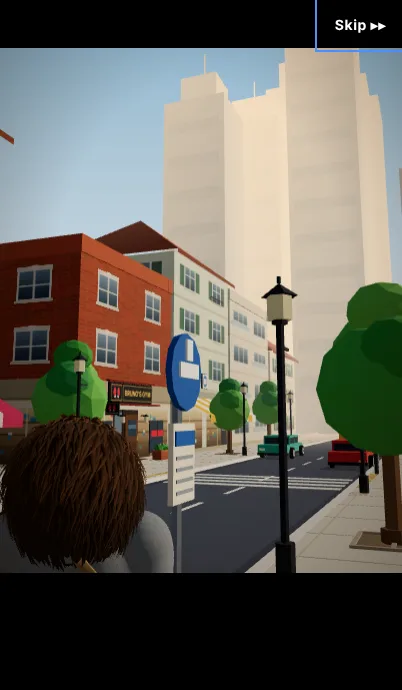
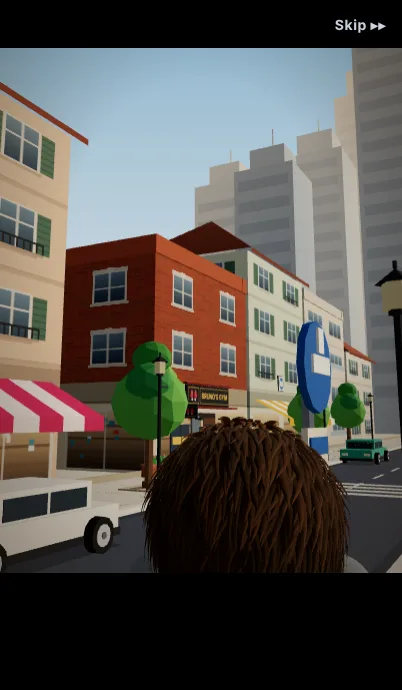
GOTR-0078 slice 1: tests for the Dream scenes, cast, outfits and walk; offline manifest; rust hoodie on the rabbit; film camera and fade fixes
Claude-Session: https://claude.ai/code/session_012XYxhJ7jTb1Ye5xdCZM7vq

diff --git a/adventure/story/story-cast.js b/adventure/story/story-cast.js
@@ -383,6 +383,7 @@
   }
 
   /* ---------------------------------------------------------------- outfits (the Fighter and anyone else on the rig) */
+  const HOODIE = { lion: ['#8f959c', '#787e86'], rabbit: ['#a55a3c', '#8a4630'] }; // grey marl on the lion, faded rust on the grey rabbit
   const FUR = { lion: { fur: '#b98143', pad: '#4a3324' }, rabbit: { fur: '#939ba7', pad: '#c79a9a' } };
   const OUTFITS = {
     kit: null,
@@ -390,7 +391,7 @@
     street: {
       hide: ['gloves', 'shorts', 'boots', 'trim', 'fur'],
       cloth(rig) {
-        const hood = lin('#8f959c'), dark = lin('#787e86'), denim = lin('#3d5b86'), worn = lin('#7f9cc4'), seam = lin('#c9a36a'), tmp = new THREE.Color();
+        const tone = HOODIE[rig.species] || HOODIE.lion, hood = lin(tone[0]), dark = lin(tone[1]), denim = lin('#3d5b86'), worn = lin('#7f9cc4'), seam = lin('#c9a36a'), tmp = new THREE.Color();
         return v => {
           const ax = Math.abs(v.x);
           if (v.y > 1.772 || ax > .925 || v.y < .112) return null;
@@ -399,7 +400,7 @@
             const fade = Math.max(.75 * bell(v.y, .82, .13) * smooth(v.z / .05), bell(v.y, .56, .07) * smooth(v.z / .04)) * bell(ax, cx, .09);
             const hem = 1 - smooth((v.y - .135) / .02), fold = .0035 * Math.sin(v.y * 95 + ang * 2) * bell(v.y, .3, .16);
             const c = tmp.copy(denim).lerp(worn, clamp(fade)).lerp(seam, clamp(seamLine * .8)).lerp(worn, hem * .6).clone().multiplyScalar(1 - .06 * Math.sin(v.y * 700 + ax * 300));
-            return { d: .013 + .009 * hem + fold * .5 + .004 * bell(v.y, .9, .12), c, move: v.y < .9 ? trouser(v, lerp(.098, .128, smooth((v.y - .45) / .42)), smooth((.9 - v.y) / .1)) : null };
+            return { d: .013 + .009 * hem + fold * .15 + .004 * bell(v.y, .9, .12), c, move: v.y < .9 ? trouser(v, lerp(.098, .128, smooth((v.y - .45) / .42)), smooth((.9 - v.y) / .1)) : null };
           }
           // hoodie: ribbed hem and cuffs, a kangaroo pocket, loose over the waist
           const hem = 1 - smooth((v.y - 1.085) / .02), cuff = smooth((ax - .875) / .02), front = smooth((v.z - .02) / .06) * (1 - v.arm);
@@ -407,7 +408,7 @@
           const waist = bell(v.y, 1.2, .14) * (1 - v.arm), wr = v.arm > .5 ? .004 * Math.sin(ax * 62) * bell(ax, .66, .11) : 0; // a few soft folds at the elbow only
           const rib = (hem > .2 || cuff > .2) ? .5 + .5 * Math.sin((cuff > .2 ? Math.atan2(v.z, v.y - 1.62) * 26 : Math.atan2(v.z, v.x) * 44)) : 0;
           const c = tmp.copy(hood).lerp(dark, clamp(Math.max(hem, cuff) * (.45 + .4 * rib) + pocketEdge * .9)).clone().multiplyScalar(1 - .07 * Math.sin(v.y * 900 + v.x * 610) * Math.sin(v.z * 770));
-          const move = v.arm > .6 ? sleeve(v, lerp(.098, .064, smooth((ax - .42) / .46)), smooth((v.arm - .6) / .3)) : v.arm < .25 && v.y < 1.69 ? tube(v, .292, lerp(.2, .232, smooth((v.y - 1.2) / .3)), .205, (1 - v.arm * 4) * smooth((1.69 - v.y) / .1)) : null;
+          const move = v.arm > .6 ? sleeve(v, lerp(.098, .064, smooth((ax - .42) / .46)), smooth((v.arm - .6) / .3)) : v.arm < .25 && v.y < 1.69 ? tube(v, .292, lerp(.2, .246, smooth((v.y - 1.2) / .3)), .205, (1 - v.arm * 4) * smooth((1.69 - v.y) / .1)) : null;
           return { d: .022 + .006 * waist + .005 * pocket + wr - .006 * Math.max(hem, cuff) * (1 - rib * .5) - .006 * smooth((v.y - 1.71) / .06), c, move };
         };
       },
@@ -416,8 +417,8 @@
         for (const m of bareHands(rig, f.fur, f.pad)) add(m);
         for (const m of shoes(rig, { upper: '#d6cfbf', toe: '#bdb5a3', sole: '#a79e8c', edge: '#8c3b33', lace: '#efeadf', collar: '#b9b1a0' })) add(m);
         // the hood lies on the upper back; a collar ring and two drawstrings in front
-        const P = new Parts(), hood = '#8f959c', dark = '#787e86', bz = B(0, 1.66, true), o = V(0, 1.36, 0), L = p => p.clone().sub(o);
-        P.sph(L(V(0, 1.685, bz - .035)), V(.185, .125, .075), hood, [.35, 0, 0]); P.sph(L(V(0, 1.70, bz - .062)), V(.13, .085, .04), dark, [.35, 0, 0]);
+        const P = new Parts(), [hood, dark] = HOODIE[rig.species] || HOODIE.lion, bz = B(0, 1.66, true), o = V(0, 1.36, 0), L = p => p.clone().sub(o);
+        P.sph(L(V(0, 1.66, bz - .016)), V(.19, .15, .055), hood, [.22, 0, 0]); P.sph(L(V(0, 1.685, bz - .05)), V(.12, .08, .028), dark, [.22, 0, 0]);
         P.tor(L(V(0, 1.775, -.012)), V(.118, .135, .11), hood, [Math.PI / 2 - .22, 0, 0]);
         for (const s of [-1, 1]) { const z = B(s * .045, 1.62); P.ribbon([L(V(s * .05, 1.74, z + .02)), L(V(s * .045, 1.66, z + .012)), L(V(s * .05, 1.575, B(s * .05, 1.575) + .008))], .008, .008, '#e9e4d8', V(1, 0, 0), 10, 6); P.sph(L(V(s * .05, 1.568, B(s * .05, 1.575) + .008)), V(.008, .012, .008), '#e9e4d8'); }
         const m = P.mesh('Hood, collar, drawstrings'); j.chest.add(m); add(m);

diff --git a/adventure/story/dream-sets.js b/adventure/story/dream-sets.js
@@ -67,7 +67,7 @@
       c.shade(-4.7, 6.2, .9, .8); box(S, -4.7, 0, 6.3, .62, 1.55, .42, '#2f6fc0'); box(S, -4.7, 1.0, 6.08, .44, .3, .02, '#12151b'); box(S, -4.7, .72, 6.08, .3, .12, .02, '#f4c152'); box(S, -4.7, 1.55, 6.3, .7, .08, .5, '#254f86'); // ticket machine
       bin(-6.0, 6.5); planter(7.6, 8.9, 1.6); planter(-9.4, 8.9, 1.6); planter(13, 8.9);
       // street furniture along the walk
-      for (const x of [-22, -9, 8.5, 18.6, 31.5, 44]) lamp(x, 4.15); for (const x of [-15, 2, 16, 33.6, 46]) lamp(x, -4.15);
+      for (const x of [-22, -9, 8.5, 13.4, 31.5, 44]) lamp(x, 4.15); for (const x of [-15, 2, 16, 33.6, 46]) lamp(x, -4.15);
       tree(-14, 5.6); tree(11.6, 5.4, 4.4); tree(28, 5.6, 4.2); tree(40, 5.5); tree(-26, 5.6, 4.3); tree(-6.4, -5.4); tree(6.6, -5.3, 4.3); tree(17.4, -5.4, 4.5); tree(34.6, -5.4, 4.2); tree(44, -5.4);
       bin(14.6, 8.6); bin(31.3, -7.3); planter(21.4, -7.6, 1.5); planter(32.9, -7.6); planter(-2.4, -7.6, 1.5); planter(16.8, 8.9);
       for (const x of [19.7, 24.7]) { bollard(x, 4.0); bollard(x, -4.0); }
@@ -161,7 +161,7 @@
       cyl(S, -1.3, 0, -1.0, .2, .5, '#8f2f22', P.cyl12); cyl(S, -1.3, .5, -1.0, .23, .05, '#1d1f24', P.cyl12); cyl(S, -.75, 0, -1.3, .17, .32, '#aab2bc', P.cyl12, 0, 0, .2); box(S, -.75, .3, -1.3, .3, .03, .22, '#f1ece0');
       cyl(S, 3.4, 0, ZB + .35, .02, 1.6, '#c9a36a', P.cyl6, .18); box(S, 3.4, 0, ZB + .62, .34, .08, .14, '#d8d2c4');
       // hanging lamps: enamel shades, bright bulbs, warm pools on the floor
-      for (const [x, z] of [[-4.6, -3.3], [0, 1.2], [5.6, -2.6], [-6, 4.5], [6, 5.5], [0, 7]]) { cyl(S, x, 3.6, z, .012, H - 3.6, '#2a2f38', P.cyl6); S.add(P.cone8, M(x, 3.42, z, .46, .26, .46), C('#2f5d4a')); G.add(P.sph, M(x, 3.44, z, .1, .1, .1), C('#fff3cf')); pool(x, z, 2.6, '#ffe2a8'); }
+      pool(0, 1.0, 2.8, '#ffe2a8'); for (const [x, z] of [[-4.6, -3.3], [-2.4, 3.4], [2.6, 3.6], [5.6, -2.6], [-6, 5.5], [6, 5.5]]) { cyl(S, x, 3.6, z, .012, H - 3.6, '#2a2f38', P.cyl6); S.add(P.cone8, M(x, 3.42, z, .46, .26, .46), C('#2f5d4a')); G.add(P.sph, M(x, 3.44, z, .1, .1, .1), C('#fff3cf')); pool(x, z, 2.6, '#ffe2a8'); }
       return { x: 0, z: 0, r: 13 };
     });
   }

diff --git a/adventure/story/dream-core.js b/adventure/story/dream-core.js
@@ -75,8 +75,8 @@
         { t: 4.6, pos: [8.4, 2.6, 9.8], look: [1.2, 1.5, 2.6] },
         { t: 7.2, pos: [7.6, 1.55, 9.2], look: [2.2, 1.35, 3.0], ease: 'smooth' },            // the bus has stopped, doors open
         { t: 9.6, pos: [7.0, 1.5, 8.4], look: [2.6, 1.3, 4.0], ease: 'smooth' },
-        { t: 9.6, cut: true, pos: [5.5, .95, 6.5], look: [2.85, 1.72, 4.45] },       // low on his face: he looks up at the city
-        { t: 12.4, pos: [5.2, 1.0, 6.2], look: [2.85, 1.76, 4.45], fov: 33, ease: 'linear' },
+        { t: 9.6, cut: true, pos: [5.9, 1.2, 6.9], look: [2.85, 1.68, 4.45] },       // low on his face: he looks up at the city
+        { t: 12.4, pos: [5.6, 1.2, 6.6], look: [2.85, 1.72, 4.45], fov: 33, ease: 'linear' },
         { t: 12.4, cut: true, pos: [.3, 2.05, 5.5], look: [24, 6.5, -7] },                   // over his shoulder: the street, the towers
         { t: 15.6, pos: [1.0, 2.3, 5.3], look: [26, 8, -8], ease: 'linear' },
         { t: 15.6, cut: true, pos: [6.6, 1.25, .8], look: [3.9, 1.15, 5.4] },                 // walk 1: from the road, he passes
@@ -198,7 +198,7 @@
     return {
       set: 'dream_gym', duration: 24, chapter: 1, tap: true, outcome: win ? 'win' : 'loss', outfit: { fighter: 'kit' },
       camera: [
-        { t: 0, pos: [-.3, 1.2, 4.6], look: [.2, 1.15, .7] },
+        { t: 0, pos: [-1.0, 1.25, 4.3], look: [-.55, 1.2, .8] },
         { t: 4, pos: [0, 1.5, 4.5], look: [0, 1.3, .8], ease: 'smooth' },
         { t: 4, cut: true, pos: [-1.8, 1.7, 2.2], look: [.9, 1.66, .7], fov: 30 },
         { t: 8, pos: [-1.75, 1.7, 2.2], look: [.9, 1.66, .7], fov: 29, ease: 'linear' },

diff --git a/adventure/story/dream.css b/adventure/story/dream.css
@@ -6,7 +6,7 @@
 .dream-bar-top{top:0;height:var(--dream-top)}.dream-bar-bottom{bottom:0;height:var(--dream-bottom)}
 .dream-scene .story-host{top:var(--dream-top);bottom:var(--dream-bottom)}
 .dream-scene .story-vignette{top:var(--dream-top);bottom:var(--dream-bottom)}
-.dream-fade{position:absolute;inset:0;background:#f6efe2;opacity:0;pointer-events:none}
+.dream-fade{position:absolute;inset:var(--dream-top) 0 var(--dream-bottom);background:#f6efe2;opacity:0;pointer-events:none}
 .dream-sub{position:absolute;inset-inline:16px;bottom:0;height:var(--dream-bottom);display:flex;flex-direction:column;align-items:center;justify-content:center;gap:2px;text-align:center;pointer-events:none;padding-bottom:env(safe-area-inset-bottom)}
 .dream-name{font-size:12px;font-weight:800;letter-spacing:.09em;text-transform:uppercase;color:var(--gr-gold,#f4c152)}
 .dream-sub[data-who=brick] .dream-name{color:#ff6b6b}.dream-sub[data-who=fighter] .dream-name{color:#8fd0ff}
